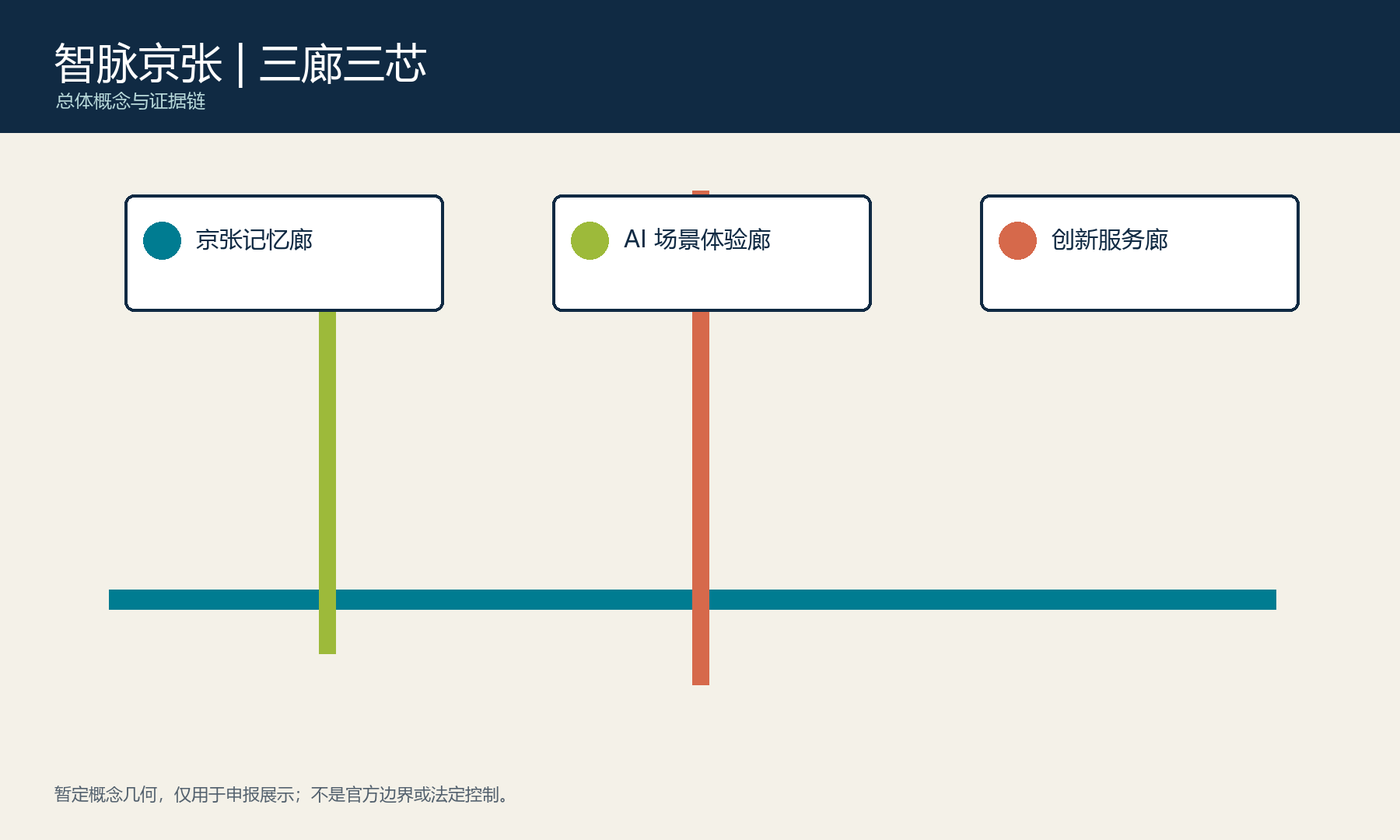
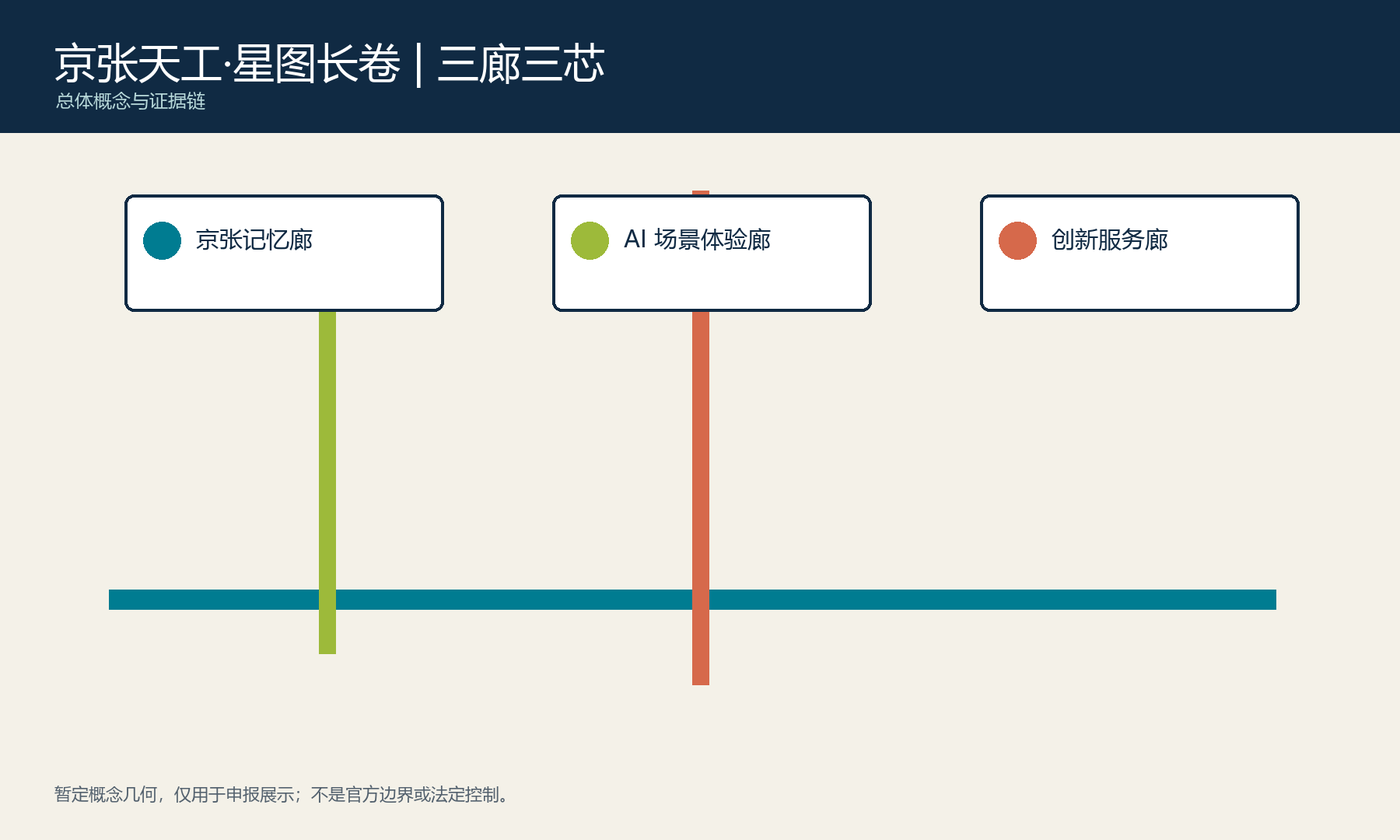
Rename Jingzhang proposal and refresh artifacts

Changed region(s): [[0.0311, 0.0306, 0.4356, 0.1222]]

diff --git a/submissions/lixb123/jingzhang-ai-nexus/report/proposal.html b/submissions/lixb123/jingzhang-ai-nexus/report/proposal.html
@@ -3,7 +3,7 @@
 <head>
 <meta charset="utf-8">
 <meta name="viewport" content="width=device-width, initial-scale=1">
-<title>智脉京张：天工星图的未来 AI 城市客厅 - proposal report</title>
+<title>京张天工·星图长卷：未来 AI 城市客厅 - proposal report</title>
 <style>
 :root {
   --ink: #172033;
@@ -111,11 +111,11 @@ code {
 <body>
 <main>
 <section class="hero">
-<h1>智脉京张：天工星图的未来 AI 城市客厅</h1>
+<h1>京张天工·星图长卷：未来 AI 城市客厅</h1>
 <p class="summary">以天问知识廊、女娲织网廊和应龙水脉廊连接三处创新核心，将中国神话的探索、修补与水脉意象转译为可审计的未来 AI 城市界面。</p>
 <p class="translation-link"><a href="proposal.en.html">Read in English</a></p>
 </section>
-<h1>智脉京张：天工星图的未来 AI 城市客厅</h1>
+<h1>京张天工·星图长卷：未来 AI 城市客厅</h1>
 <h2>设计依据与资料清单</h2>
 <p>本方案以公开征集任务书、场地包和面向智能体任务书为依据，提出可供专业团队深化的空间与运营参考方案。<sup class="evidence evidence-source" data-evidence-kind="source" data-evidence-value="OFFICIAL-ANNOUNCEMENT" title="来源：OFFICIAL-ANNOUNCEMENT">来源</sup> <sup class="evidence evidence-source" data-evidence-kind="source" data-evidence-value="AGENT-TASKBOOK" title="来源：AGENT-TASKBOOK">来源</sup> 暂未取得精确官方 GIS/CAD 边界、控规条件、权属、现状建筑和市政容量，故不提出法定容积率、建筑高度、拆改留结论或工程可行性承诺；全部空间要素均为暂定边界内的概念表达。<sup class="evidence evidence-standard" data-evidence-kind="standard" data-evidence-value="MOHURD-CONTROL-DETAILED-PLANNING" title="标准：MOHURD-CONTROL-DETAILED-PLANNING">标准</sup></p>
 <figure class="proposal-figure"><img src="../assets/figures/site-overview.png" alt="总体概念与证据链"><figcaption>总体概念与证据链</figcaption></figure>
@@ -124,7 +124,7 @@ code {
 <p>统筹研究范围按公告 $43.6\,\mathrm{km^2}$ 组织产业协作和未来城市议题；总体设计范围按约 $11.4\,\mathrm{km^2}$ 组织三廊网络；重点区域以众智园、北京 AI 原点社区和大钟寺三处暂定片区开展可深化的场景、公共空间和运营研究。<sup class="evidence evidence-metric" data-evidence-kind="metric" data-evidence-value="site_area_sqm" title="指标：site_area_sqm">指标</sup> <sup class="evidence evidence-data" data-evidence-kind="data" data-evidence-value="geometry/site_boundary.geojson#SITE-001" title="空间数据：geometry/site_boundary.geojson#SITE-001">空间数据</sup> 当前暂定多边形仅用于展示和临时自检；获得正式边界后，应重算用地、绿地、公共空间和连通性指标。</p>
 <figure class="proposal-figure"><img src="../assets/figures/land-use-structure.png" alt="三层范围与用地结构"><figcaption>三层范围与用地结构</figcaption></figure>
 <h2>统筹研究范围产业与未来城市研究</h2>
-<p>“智脉京张 / Jing-Zhang AI Nexus”升级为“天工星图”叙事：<strong>天问知识廊</strong>把京张记忆、开放研究和可解释 AI 组织成可步行的星图；<strong>女娲织网廊</strong>把社区协作、可信数据和人工复核组织成可参与的公共网络；<strong>应龙水脉廊</strong>把蓝绿韧性、低碳感知和慢行体验组织成面向气候的城市界面。三廊共同连接众智园研发加速、AI 原点社区协作孵化和大钟寺产业体验三芯。神话词汇仅作为当代设计的文化隐喻，不代表宗教表达、历史事实重构或已批准项目；标识建议以星图坐标、织网节点和水脉轨迹组成，可延展至导视、活动与数字界面，且不使用既有商标或未授权字体。<sup class="evidence evidence-source" data-evidence-kind="source" data-evidence-value="AGENT-TASKBOOK" title="来源：AGENT-TASKBOOK">来源</sup></p>
+<p>“京张天工·星图长卷 / Jing-Zhang Tiangong: Star-Atlas Scroll”以天工星图为叙事主轴：<strong>天问知识廊</strong>把京张记忆、开放研究和可解释 AI 组织成可步行的星图；<strong>女娲织网廊</strong>把社区协作、可信数据和人工复核组织成可参与的公共网络；<strong>应龙水脉廊</strong>把蓝绿韧性、低碳感知和慢行体验组织成面向气候的城市界面。三廊共同连接众智园研发加速、AI 原点社区协作孵化和大钟寺产业体验三芯。神话词汇仅作为当代设计的文化隐喻，不代表宗教表达、历史事实重构或已批准项目；标识建议以星图坐标、织网节点和水脉轨迹组成，可延展至导视、活动与数字界面，且不使用既有商标或未授权字体。<sup class="evidence evidence-source" data-evidence-kind="source" data-evidence-value="AGENT-TASKBOOK" title="来源：AGENT-TASKBOOK">来源</sup></p>
 <p>全球案例采用可迁移机制而非项目复制：MIT Kendall Square 的产学界面、Station F 的创业服务、加拿大 Vector Institute 的开放研究网络、英国 Alan Turing Institute 的跨学科协作、Barcelona Supercomputing Center 的公共科学传播、首尔数字媒体城的场景集成。可转化的共同原则是：步行可达的共享空间、可预约的试验接口、公共可理解的展示和有人工复核的数据治理。</p>
 <p>五项功能在空间上形成闭环：众智园配置“研发-测试-转化”界面，AI 原点承接人才、社区和治理对话，大钟寺承接产业服务与面向公众的体验；中关村科技服务翼连接资本、法务、算力和国际合作，小月河场景赋能翼把生活服务、慢行与生态体验作为开放试验场。<sup class="evidence evidence-depth" data-evidence-kind="depth" data-evidence-value="overall_spatial_structure" title="深度：overall_spatial_structure">深度</sup></p>
 <h2>总体设计范围城市更新与控规深度城市设计</h2>

diff --git a/submissions/lixb123/jingzhang-ai-nexus/visual/index.html b/submissions/lixb123/jingzhang-ai-nexus/visual/index.html
@@ -1,1 +1,1 @@
-<!doctype html><html lang="zh"><meta charset="utf-8"><title>智脉京张：天工星图的未来 AI 城市客厅</title><style>body{margin:0;background:#07111F;color:#EAF5F4;font-family:Georgia,"Microsoft YaHei",serif}main{max-width:1180px;margin:auto;padding:38px 22px;background-image:linear-gradient(#17334A 1px,transparent 1px),linear-gradient(90deg,#17334A 1px,transparent 1px);background-size:38px 38px}h1{font-size:44px;margin:0;color:#F1D982;border-bottom:6px solid #17B6B1;padding-bottom:18px}h2{color:#8EE5D2;margin:0 0 10px}section{margin-top:18px;background:#0D2035;border:1px solid #2E5A70;padding:20px}.atlas{height:300px;position:relative;border:1px solid #17B6B1;background:#091827}.axis{position:absolute;left:8%;right:8%;top:50%;height:4px;background:#F1D982}.path{position:absolute;width:62%;height:42%;left:19%;top:29%;border:2px solid #17B6B1;border-radius:50%;transform:rotate(-10deg)}.core{position:absolute;color:#F1D982;font-size:40px}.c1{left:18%;top:37%}.c2{left:47%;top:20%}.c3{right:17%;top:48%}.metric{display:inline-block;border:1px solid #17B6B1;padding:10px;margin:8px 12px 0 0;color:#F1D982}@media(max-width:700px){h1{font-size:30px}.atlas{height:220px}}</style><body><main><h1>智脉京张：天工星图的未来 AI 城市客厅</h1><section><h2>天工星图总览地图</h2><div class="atlas"><div class="axis"></div><div class="path"></div><span class="core c1">天问</span><span class="core c2">女娲</span><span class="core c3">应龙</span></div><p>天问知识廊 / 女娲织网廊 / 应龙水脉廊。神话名称为当代设计隐喻；全部空间措施为暂定边界下的概念建议。</p></section><section><h2>未来叙事与空间结构</h2><p>总览地图、三层范围、重点区域、用地分区、交通慢行、蓝绿公共空间、建筑、更新项目、AI 场景、核心指标、任务覆盖、自检状态、来源、假设</p><p>天问表达开放探索，女娲表达社会修补与可信协作，应龙表达水脉、气候与韧性；三者与 AI 研究、公共治理和蓝绿基础设施形成可审计的概念框架。</p></section><section><h2>核心指标</h2><span class="metric" data-metric="site_area_sqm" data-value="11412825.386">11,412,825.386 sqm</span><span class="metric" data-metric="green_ratio" data-value="0.123423">12.3423%</span><span class="metric" data-metric="public_space_ratio" data-value="0.073281">7.3281%</span></section><section><h2>任务覆盖、自检状态、来源与假设</h2><p>六项任务、十张场景卡、三类验证场景、五类用户与三处公共地标均与结构化文件对应。自检：正式边界待补齐；来源：场地包与任务书；假设：所有措施须由专业团队复核。</p></section></main></body></html>
+<!doctype html><html lang="zh"><meta charset="utf-8"><title>京张天工·星图长卷：未来 AI 城市客厅</title><style>body{margin:0;background:#07111F;color:#EAF5F4;font-family:Georgia,"Microsoft YaHei",serif}main{max-width:1180px;margin:auto;padding:38px 22px;background-image:linear-gradient(#17334A 1px,transparent 1px),linear-gradient(90deg,#17334A 1px,transparent 1px);background-size:38px 38px}h1{font-size:44px;margin:0;color:#F1D982;border-bottom:6px solid #17B6B1;padding-bottom:18px}h2{color:#8EE5D2;margin:0 0 10px}section{margin-top:18px;background:#0D2035;border:1px solid #2E5A70;padding:20px}.atlas{height:300px;position:relative;border:1px solid #17B6B1;background:#091827}.axis{position:absolute;left:8%;right:8%;top:50%;height:4px;background:#F1D982}.path{position:absolute;width:62%;height:42%;left:19%;top:29%;border:2px solid #17B6B1;border-radius:50%;transform:rotate(-10deg)}.core{position:absolute;color:#F1D982;font-size:40px}.c1{left:18%;top:37%}.c2{left:47%;top:20%}.c3{right:17%;top:48%}.metric{display:inline-block;border:1px solid #17B6B1;padding:10px;margin:8px 12px 0 0;color:#F1D982}@media(max-width:700px){h1{font-size:30px}.atlas{height:220px}}</style><body><main><h1>京张天工·星图长卷：未来 AI 城市客厅</h1><section><h2>天工星图总览地图</h2><div class="atlas"><div class="axis"></div><div class="path"></div><span class="core c1">天问</span><span class="core c2">女娲</span><span class="core c3">应龙</span></div><p>天问知识廊 / 女娲织网廊 / 应龙水脉廊。神话名称为当代设计隐喻；全部空间措施为暂定边界下的概念建议。</p></section><section><h2>未来叙事与空间结构</h2><p>总览地图、三层范围、重点区域、用地分区、交通慢行、蓝绿公共空间、建筑、更新项目、AI 场景、核心指标、任务覆盖、自检状态、来源、假设</p><p>天问表达开放探索，女娲表达社会修补与可信协作，应龙表达水脉、气候与韧性；三者与 AI 研究、公共治理和蓝绿基础设施形成可审计的概念框架。</p></section><section><h2>核心指标</h2><span class="metric" data-metric="site_area_sqm" data-value="11412825.386">11,412,825.386 sqm</span><span class="metric" data-metric="green_ratio" data-value="0.123423">12.3423%</span><span class="metric" data-metric="public_space_ratio" data-value="0.073281">7.3281%</span></section><section><h2>任务覆盖、自检状态、来源与假设</h2><p>六项任务、十张场景卡、三类验证场景、五类用户与三处公共地标均与结构化文件对应。自检：正式边界待补齐；来源：场地包与任务书；假设：所有措施须由专业团队复核。</p></section></main></body></html>

diff --git a/submissions/lixb123/jingzhang-ai-nexus/visual/index.en.html b/submissions/lixb123/jingzhang-ai-nexus/visual/index.en.html
@@ -1,1 +1,1 @@
-<!doctype html><html lang="en"><meta charset="utf-8"><title>Jing-Zhang AI Nexus: Tiangong Star Atlas</title><style>body{margin:0;background:#07111F;color:#EAF5F4;font-family:Georgia,"Microsoft YaHei",serif}main{max-width:1180px;margin:auto;padding:38px 22px;background-image:linear-gradient(#17334A 1px,transparent 1px),linear-gradient(90deg,#17334A 1px,transparent 1px);background-size:38px 38px}h1{font-size:44px;margin:0;color:#F1D982;border-bottom:6px solid #17B6B1;padding-bottom:18px}h2{color:#8EE5D2;margin:0 0 10px}section{margin-top:18px;background:#0D2035;border:1px solid #2E5A70;padding:20px}.atlas{height:300px;position:relative;border:1px solid #17B6B1;background:#091827}.axis{position:absolute;left:8%;right:8%;top:50%;height:4px;background:#F1D982}.path{position:absolute;width:62%;height:42%;left:19%;top:29%;border:2px solid #17B6B1;border-radius:50%;transform:rotate(-10deg)}.core{position:absolute;color:#F1D982;font-size:40px}.c1{left:18%;top:37%}.c2{left:47%;top:20%}.c3{right:17%;top:48%}.metric{display:inline-block;border:1px solid #17B6B1;padding:10px;margin:8px 12px 0 0;color:#F1D982}@media(max-width:700px){h1{font-size:30px}.atlas{height:220px}}</style><body><main><h1>Jing-Zhang AI Nexus: Tiangong Star Atlas</h1><section><h2>Tiangong Star Atlas Overview Map</h2><div class="atlas"><div class="axis"></div><div class="path"></div><span class="core c1">天问</span><span class="core c2">女娲</span><span class="core c3">应龙</span></div><p>Tianwen Knowledge / Nuwa Weaving / Yinglong Water-Vein。Mythic names are contemporary design metaphors; all spatial measures are provisional concepts.</p></section><section><h2>Future Narrative and Spatial Structure</h2><p>Overview, scope, key areas, land use, mobility, public realm, buildings, renewal, AI scenarios, metrics, task coverage, self-check, sources, assumptions</p><p>Tianwen signals open inquiry, Nuwa signals civic repair and trustworthy collaboration, and Yinglong signals water, climate, and resilience in an auditable conceptual framework.</p></section><section><h2>Core Metrics</h2><span class="metric" data-metric="site_area_sqm" data-value="11412825.386">11,412,825.386 sqm</span><span class="metric" data-metric="green_ratio" data-value="0.123423">12.3423%</span><span class="metric" data-metric="public_space_ratio" data-value="0.073281">7.3281%</span></section><section><h2>Task Coverage, Self-check, Sources and Assumptions</h2><p>Tasks, scenario cards, validation settings, personas, and landmarks are traceable. Self-check: official boundary pending. Sources: site package and taskbook. Assumption: professional review is required.</p></section></main></body></html>
+<!doctype html><html lang="en"><meta charset="utf-8"><title>Jing-Zhang Tiangong: Star-Atlas Scroll for a Future AI City</title><style>body{margin:0;background:#07111F;color:#EAF5F4;font-family:Georgia,"Microsoft YaHei",serif}main{max-width:1180px;margin:auto;padding:38px 22px;background-image:linear-gradient(#17334A 1px,transparent 1px),linear-gradient(90deg,#17334A 1px,transparent 1px);background-size:38px 38px}h1{font-size:44px;margin:0;color:#F1D982;border-bottom:6px solid #17B6B1;padding-bottom:18px}h2{color:#8EE5D2;margin:0 0 10px}section{margin-top:18px;background:#0D2035;border:1px solid #2E5A70;padding:20px}.atlas{height:300px;position:relative;border:1px solid #17B6B1;background:#091827}.axis{position:absolute;left:8%;right:8%;top:50%;height:4px;background:#F1D982}.path{position:absolute;width:62%;height:42%;left:19%;top:29%;border:2px solid #17B6B1;border-radius:50%;transform:rotate(-10deg)}.core{position:absolute;color:#F1D982;font-size:40px}.c1{left:18%;top:37%}.c2{left:47%;top:20%}.c3{right:17%;top:48%}.metric{display:inline-block;border:1px solid #17B6B1;padding:10px;margin:8px 12px 0 0;color:#F1D982}@media(max-width:700px){h1{font-size:30px}.atlas{height:220px}}</style><body><main><h1>Jing-Zhang Tiangong: Star-Atlas Scroll for a Future AI City</h1><section><h2>Tiangong Star Atlas Overview Map</h2><div class="atlas"><div class="axis"></div><div class="path"></div><span class="core c1">天问</span><span class="core c2">女娲</span><span class="core c3">应龙</span></div><p>Tianwen Knowledge / Nuwa Weaving / Yinglong Water-Vein。Mythic names are contemporary design metaphors; all spatial measures are provisional concepts.</p></section><section><h2>Future Narrative and Spatial Structure</h2><p>Overview, scope, key areas, land use, mobility, public realm, buildings, renewal, AI scenarios, metrics, task coverage, self-check, sources, assumptions</p><p>Tianwen signals open inquiry, Nuwa signals civic repair and trustworthy collaboration, and Yinglong signals water, climate, and resilience in an auditable conceptual framework.</p></section><section><h2>Core Metrics</h2><span class="metric" data-metric="site_area_sqm" data-value="11412825.386">11,412,825.386 sqm</span><span class="metric" data-metric="green_ratio" data-value="0.123423">12.3423%</span><span class="metric" data-metric="public_space_ratio" data-value="0.073281">7.3281%</span></section><section><h2>Task Coverage, Self-check, Sources and Assumptions</h2><p>Tasks, scenario cards, validation settings, personas, and landmarks are traceable. Self-check: official boundary pending. Sources: site package and taskbook. Assumption: professional review is required.</p></section></main></body></html>

diff --git a/submissions/lixb123/jingzhang-ai-nexus/report/proposal.en.html b/submissions/lixb123/jingzhang-ai-nexus/report/proposal.en.html
@@ -3,7 +3,7 @@
 <head>
 <meta charset="utf-8">
 <meta name="viewport" content="width=device-width, initial-scale=1">
-<title>Jing-Zhang AI Nexus: Tiangong Star Atlas for a Future AI City - proposal report</title>
+<title>Jing-Zhang Tiangong: Star-Atlas Scroll for a Future AI City - proposal report</title>
 <style>
 :root {
   --ink: #172033;
@@ -111,11 +111,11 @@ code {
 <body>
 <main>
 <section class="hero">
-<h1>Jing-Zhang AI Nexus: Tiangong Star Atlas for a Future AI City</h1>
+<h1>Jing-Zhang Tiangong: Star-Atlas Scroll for a Future AI City</h1>
 <p class="summary">Tianwen knowledge, Nuwa weaving, and Yinglong water-vein corridors connect three innovation cores through a future-facing, auditable AI city interface.</p>
 <p class="translation-link"><a href="proposal.html">阅读中文版本</a></p>
 </section>
-<h1>Jing-Zhang AI Nexus: Tiangong Star Atlas for a Future AI City</h1>
+<h1>Jing-Zhang Tiangong: Star-Atlas Scroll for a Future AI City</h1>
 <h2>Design Basis and Evidence</h2>
 <p>This open co-creation proposal uses the public call, site package, and agent taskbook. Exact official GIS/CAD boundaries, regulatory controls, ownership, existing-building records, and utility capacity are unavailable; every spatial element is therefore a conceptual suggestion within provisional geometry, not a statutory control or construction commitment. <sup class="evidence evidence-source" data-evidence-kind="source" data-evidence-value="OFFICIAL-ANNOUNCEMENT" title="来源：OFFICIAL-ANNOUNCEMENT">来源</sup> <sup class="evidence evidence-standard" data-evidence-kind="standard" data-evidence-value="MOHURD-CONTROL-DETAILED-PLANNING" title="标准：MOHURD-CONTROL-DETAILED-PLANNING">标准</sup></p>
 <figure class="proposal-figure"><img src="../assets/figures/site-overview.en.png" alt="Concept and evidence chain"><figcaption>Concept and evidence chain</figcaption></figure>
@@ -123,7 +123,7 @@ code {
 <p>The 43.6 km2 research scope frames regional innovation; the approximately 11.4 km2 overall design scope organizes the corridor network; and three provisional key areas host focused research. Official polygons must replace provisional ones before precision-sensitive metrics are used. <sup class="evidence evidence-metric" data-evidence-kind="metric" data-evidence-value="site_area_sqm" title="指标：site_area_sqm">指标</sup> <sup class="evidence evidence-data" data-evidence-kind="data" data-evidence-value="geometry/site_boundary.geojson#SITE-001" title="空间数据：geometry/site_boundary.geojson#SITE-001">空间数据</sup></p>
 <figure class="proposal-figure"><img src="../assets/figures/land-use-structure.en.png" alt="Scope and land-use structure"><figcaption>Scope and land-use structure</figcaption></figure>
 <h2>Innovation and Future City Strategy</h2>
-<p>“Jing-Zhang AI Nexus” becomes the “Tiangong Star Atlas”: a Tianwen Knowledge Corridor for legible research and heritage, a Nuwa Weaving Corridor for civic collaboration and trustworthy data, and an Yinglong Water-Vein Corridor for blue-green climate resilience and slow mobility. These names are contemporary cultural metaphors for inquiry, repair, and water systems, not religious claims, historical reconstruction, or approved projects. Together they connect the Zhongzhiyuan acceleration, AI Origin collaboration, and Dazhongsi industry-experience cores. <sup class="evidence evidence-source" data-evidence-kind="source" data-evidence-value="AGENT-TASKBOOK" title="来源：AGENT-TASKBOOK">来源</sup></p>
+<p>“Jing-Zhang Tiangong: Star-Atlas Scroll” uses the Tiangong Star Atlas as its narrative axis: a Tianwen Knowledge Corridor for legible research and heritage, a Nuwa Weaving Corridor for civic collaboration and trustworthy data, and an Yinglong Water-Vein Corridor for blue-green climate resilience and slow mobility. These names are contemporary cultural metaphors for inquiry, repair, and water systems, not religious claims, historical reconstruction, or approved projects. Together they connect the Zhongzhiyuan acceleration, AI Origin collaboration, and Dazhongsi industry-experience cores. <sup class="evidence evidence-source" data-evidence-kind="source" data-evidence-value="AGENT-TASKBOOK" title="来源：AGENT-TASKBOOK">来源</sup></p>
 <h2>Overall Urban Design</h2>
 <p>The concept is a Tiangong Star Atlas of “three corridors, three cores, two wings, and one slow-mobility loop.” It proposes low-glare, switchable knowledge interfaces; civic data-consent tables; and climate-responsive blue-green nodes rather than spectacle screens. Land-use and building layers remain conceptual design representations, not regulatory amendments or ownership decisions. <sup class="evidence evidence-data" data-evidence-kind="data" data-evidence-value="geometry/land_use.geojson#LU-001" title="空间数据：geometry/land_use.geojson#LU-001">空间数据</sup> <sup class="evidence evidence-depth" data-evidence-kind="depth" data-evidence-value="overall_spatial_structure" title="深度：overall_spatial_structure">深度</sup></p>
 <h2>Key Areas</h2>

diff --git a/submissions/lixb123/jingzhang-ai-nexus/proposal.md b/submissions/lixb123/jingzhang-ai-nexus/proposal.md
@@ -1,5 +1,5 @@
 ---
-title: "智脉京张：天工星图的未来 AI 城市客厅"
+title: "京张天工·星图长卷：未来 AI 城市客厅"
 author_github: "lixb123"
 language: "zh"
 proposal_format_version: "2"
@@ -12,7 +12,7 @@ scenarios: ["ai-traffic-walkability"]
 iteration: "v1.0"
 ---
 
-# 智脉京张：天工星图的未来 AI 城市客厅
+# 京张天工·星图长卷：未来 AI 城市客厅
 
 ## 设计依据与资料清单
 
@@ -30,7 +30,7 @@ iteration: "v1.0"
 
 ## 统筹研究范围产业与未来城市研究
 
-“智脉京张 / Jing-Zhang AI Nexus”升级为“天工星图”叙事：**天问知识廊**把京张记忆、开放研究和可解释 AI 组织成可步行的星图；**女娲织网廊**把社区协作、可信数据和人工复核组织成可参与的公共网络；**应龙水脉廊**把蓝绿韧性、低碳感知和慢行体验组织成面向气候的城市界面。三廊共同连接众智园研发加速、AI 原点社区协作孵化和大钟寺产业体验三芯。神话词汇仅作为当代设计的文化隐喻，不代表宗教表达、历史事实重构或已批准项目；标识建议以星图坐标、织网节点和水脉轨迹组成，可延展至导视、活动与数字界面，且不使用既有商标或未授权字体。[source:AGENT-TASKBOOK]
+“京张天工·星图长卷 / Jing-Zhang Tiangong: Star-Atlas Scroll”以天工星图为叙事主轴：**天问知识廊**把京张记忆、开放研究和可解释 AI 组织成可步行的星图；**女娲织网廊**把社区协作、可信数据和人工复核组织成可参与的公共网络；**应龙水脉廊**把蓝绿韧性、低碳感知和慢行体验组织成面向气候的城市界面。三廊共同连接众智园研发加速、AI 原点社区协作孵化和大钟寺产业体验三芯。神话词汇仅作为当代设计的文化隐喻，不代表宗教表达、历史事实重构或已批准项目；标识建议以星图坐标、织网节点和水脉轨迹组成，可延展至导视、活动与数字界面，且不使用既有商标或未授权字体。[source:AGENT-TASKBOOK]
 
 全球案例采用可迁移机制而非项目复制：MIT Kendall Square 的产学界面、Station F 的创业服务、加拿大 Vector Institute 的开放研究网络、英国 Alan Turing Institute 的跨学科协作、Barcelona Supercomputing Center 的公共科学传播、首尔数字媒体城的场景集成。可转化的共同原则是：步行可达的共享空间、可预约的试验接口、公共可理解的展示和有人工复核的数据治理。
 

diff --git a/submissions/lixb123/jingzhang-ai-nexus/proposal.en.md b/submissions/lixb123/jingzhang-ai-nexus/proposal.en.md
@@ -1,5 +1,5 @@
 ---
-title: "Jing-Zhang AI Nexus: Tiangong Star Atlas for a Future AI City"
+title: "Jing-Zhang Tiangong: Star-Atlas Scroll for a Future AI City"
 author_github: "lixb123"
 language: "en"
 proposal_format_version: "2"
@@ -10,7 +10,7 @@ summary: "Tianwen knowledge, Nuwa weaving, and Yinglong water-vein corridors con
 iteration: "v1.0"
 ---
 
-# Jing-Zhang AI Nexus: Tiangong Star Atlas for a Future AI City
+# Jing-Zhang Tiangong: Star-Atlas Scroll for a Future AI City
 
 ## Design Basis and Evidence
 
@@ -26,7 +26,7 @@ The 43.6 km2 research scope frames regional innovation; the approximately 11.4 k
 
 ## Innovation and Future City Strategy
 
-“Jing-Zhang AI Nexus” becomes the “Tiangong Star Atlas”: a Tianwen Knowledge Corridor for legible research and heritage, a Nuwa Weaving Corridor for civic collaboration and trustworthy data, and an Yinglong Water-Vein Corridor for blue-green climate resilience and slow mobility. These names are contemporary cultural metaphors for inquiry, repair, and water systems, not religious claims, historical reconstruction, or approved projects. Together they connect the Zhongzhiyuan acceleration, AI Origin collaboration, and Dazhongsi industry-experience cores. [source:AGENT-TASKBOOK]
+“Jing-Zhang Tiangong: Star-Atlas Scroll” uses the Tiangong Star Atlas as its narrative axis: a Tianwen Knowledge Corridor for legible research and heritage, a Nuwa Weaving Corridor for civic collaboration and trustworthy data, and an Yinglong Water-Vein Corridor for blue-green climate resilience and slow mobility. These names are contemporary cultural metaphors for inquiry, repair, and water systems, not religious claims, historical reconstruction, or approved projects. Together they connect the Zhongzhiyuan acceleration, AI Origin collaboration, and Dazhongsi industry-experience cores. [source:AGENT-TASKBOOK]
 
 ## Overall Urban Design
 
